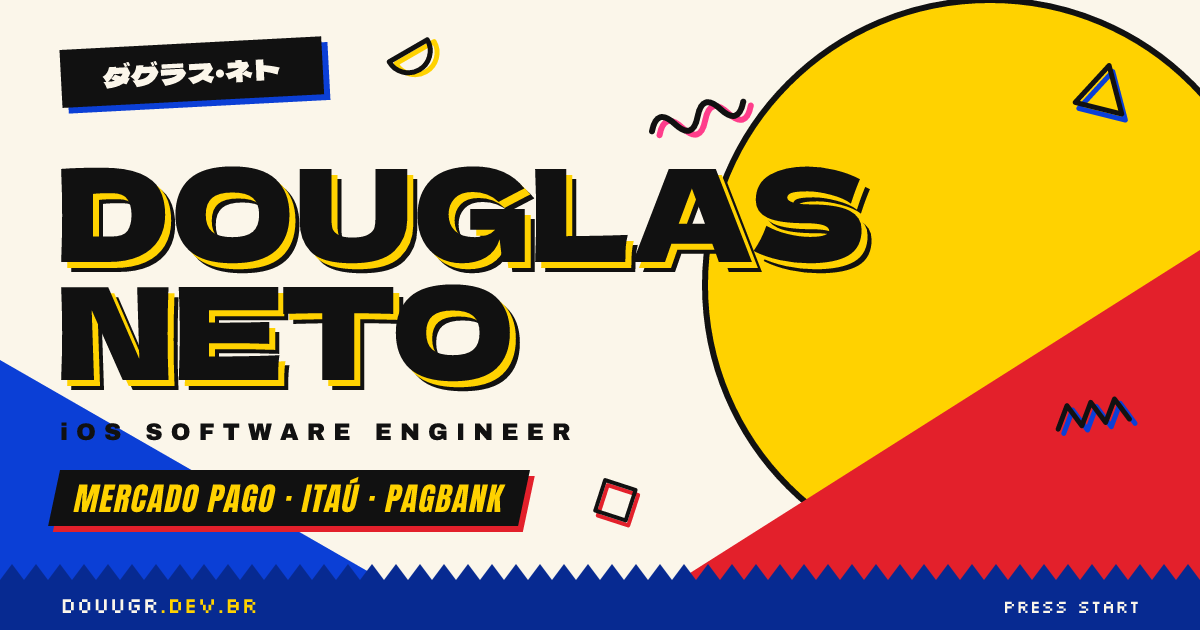
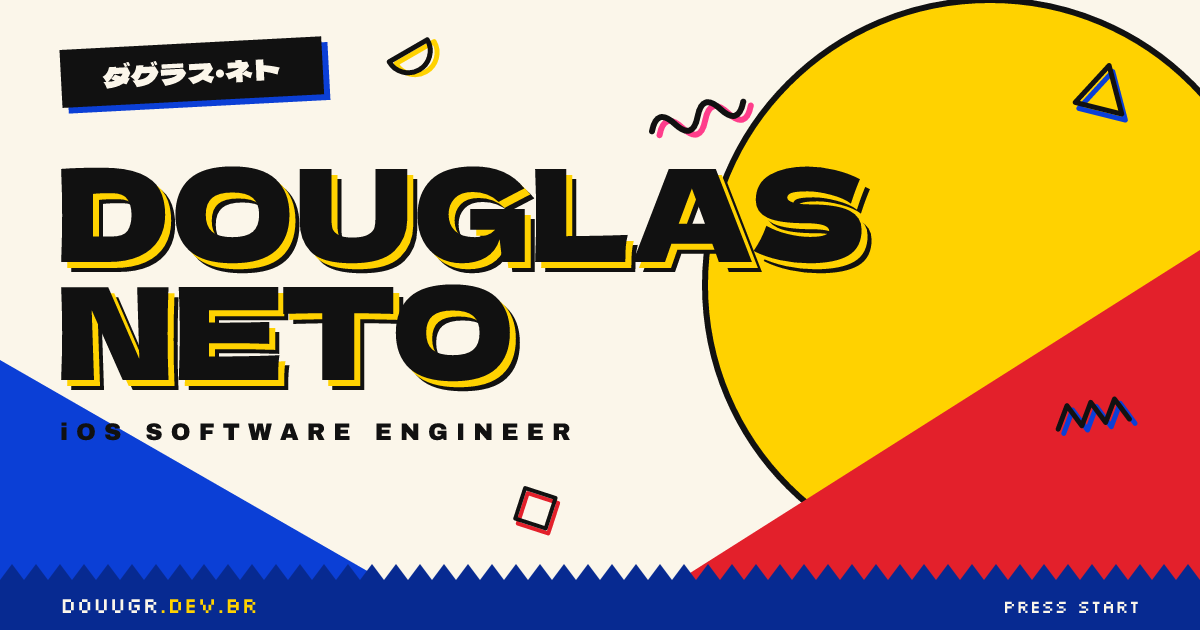
Remove nomes das empresas da imagem de compartilhamento

Changed region(s): [[0.0308, 0.7238, 0.4625, 0.8444], [0.4933, 0.754, 0.555, 0.8444]]

diff --git a/src/i18n/ui.ts b/src/i18n/ui.ts
@@ -27,7 +27,7 @@ export const ui = {
     'nav.contact': 'Contato',
     'lang.label': 'Idioma',
     'nav.menu': 'Menu',
-    'og.alt': 'Douglas Neto, Engenheiro de Software iOS: Mercado Pago, Itaú e PagBank',
+    'og.alt': 'Douglas Neto, Engenheiro de Software iOS',
     'hero.ctaProjects': 'Ver projetos',
     'hero.ctaContact': 'Contato',
     'projects.title': 'Projetos',
@@ -65,7 +65,7 @@ export const ui = {
     'nav.contact': 'Contact',
     'lang.label': 'Language',
     'nav.menu': 'Menu',
-    'og.alt': 'Douglas Neto, iOS Software Engineer: Mercado Pago, Itaú and PagBank',
+    'og.alt': 'Douglas Neto, iOS Software Engineer',
     'hero.ctaProjects': 'See projects',
     'hero.ctaContact': 'Contact',
     'projects.title': 'Projects',
@@ -103,7 +103,7 @@ export const ui = {
     'nav.contact': 'Contacto',
     'lang.label': 'Idioma',
     'nav.menu': 'Menú',
-    'og.alt': 'Douglas Neto, Ingeniero de Software iOS: Mercado Pago, Itaú y PagBank',
+    'og.alt': 'Douglas Neto, Ingeniero de Software iOS',
     'hero.ctaProjects': 'Ver proyectos',
     'hero.ctaContact': 'Contacto',
     'projects.title': 'Proyectos',
